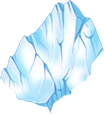
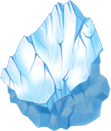
update

diff --git a/css/style.css b/css/style.css
@@ -20,6 +20,7 @@
 	width: 100%;
 	height: 521px;
 	background:  url(../img/water.png) no-repeat;
+	z-index: 1;
 }
 .animate .water{
 	animation: water 2s ease-in-out infinite alternate;
@@ -32,6 +33,7 @@
 	width: 100%;
 	height: 524px;
 	background:  url(../img/wave.png) no-repeat;
+	z-index: 3;
 }
 .animate .wave{
 	animation: wave 2s ease-in-out infinite alternate;
@@ -42,12 +44,16 @@
 	left: 44%;
 	width: 115px;
 	height: 130px;
-	background:  url(../img/iceberg.png) no-repeat,
-	url(../img/iceberg1.png) no-repeat bottom right;
+	background:  url(../img/iceberg.png) no-repeat;
+	z-index: 4;
+}
+.animate .iceberg{
+	animation: iceberg1 0.1s linear 30 alternate 3s, iceberg2 3s ease-in-out 1 alternate 6s, iceberg3 7s ease-in-out 1 9s;
 }
 .content-wrapper .sky > p{
 	font: 30px HelveticaRoman;
 	color: #95ca00;
+	cursor: pointer;
 }
 .content-wrapper .torpedo{
 	position: absolute;
@@ -61,7 +67,7 @@
 	transform: rotate(-30deg);
 }	
 .animate .torpedo.left:first-of-type{
-	animation: torpedo-left1 3s ease-in infinite;
+	animation: torpedo-left1 3s ease-in 1;
 }
 .content-wrapper .torpedo.left:nth-of-type(2){
 	top: 350px;
@@ -69,7 +75,7 @@
 	transform: rotate(-10deg);
 }
 .animate .torpedo.left:nth-of-type(2){
-	animation: torpedo-left2 3s ease-in infinite;
+	animation: torpedo-left2 3s ease-in 1;
 }
 .content-wrapper .torpedo.left:nth-of-type(3){
 	top: 290px;
@@ -77,7 +83,7 @@
 	transform: rotate(-20deg);
 }
 .animate .torpedo.left:nth-of-type(3){
-	animation: torpedo-left3 3s ease-in infinite 2s;
+	animation: torpedo-left3 3s ease-in 1 2s;
 }
 .content-wrapper .torpedo.left:nth-of-type(4){
 	top: 220px;
@@ -85,7 +91,7 @@
 	transform: rotate(0deg);
 }
 .animate .torpedo.left:nth-of-type(4){
-	animation: torpedo-left4 3s ease-in infinite 2s;
+	animation: torpedo-left4 3s ease-in 1 2s;
 }
 .content-wrapper .torpedo.right{
 	transform: rotate(180deg);
@@ -95,14 +101,14 @@
 	right: -160px;
 }
 .animate .torpedo.right:nth-of-type(5){
-	animation: torpedo-right1 3s ease-in infinite 1s;
+	animation: torpedo-right1 3s ease-in 1 1s;
 }
 .content-wrapper .torpedo.right:last-of-type{
 	top: 390px;
 	right: -160px;
 }
 .animate .torpedo.right:last-of-type{
-	animation: torpedo-right2 3s ease-in infinite 1s;
+	animation: torpedo-right2 3s ease-in 1 1s;
 }
 
 /*************************animations***************************/
@@ -115,7 +121,7 @@
 		transform: translate( 0, 0px);
 	}
 }
-	@keyframes water{
+@keyframes water{
 	from { 
 		transform: translate( 0, 0);
 	}
@@ -169,5 +175,45 @@
 	}
 	to{
 		transform: translate(450px, -230px) rotate(-20deg);
+	}
+}
+@keyframes iceberg1{
+	from{
+		-webkit-transform: translate3d(0,0,0);
+	}
+	to{
+		-webkit-transform: translate3d(20px,0,0);
+	}
+}
+@keyframes iceberg2{
+	from{
+		-webkit-z-index: 2;
+		-webkit-transform: scale(1);
+	}
+	50%{
+		-webkit-z-index: 2;
+		-webkit-transform: scale(4);
+
+	}
+	to{
+		-webkit-z-index: 5;
+		-webkit-transform: scale(5);
+	}
+}	
+@keyframes iceberg3{
+	from{
+		-webkit-transform: translate3d(0,0,0) rotate(0deg);
+	}
+	15%{
+		-webkit-transform: translate3d(20px,70px,0) rotate(15deg);
+	}
+	25%{
+		-webkit-transform: translate3d(40px,140px,0) rotate(-15deg);
+	}
+	50%{
+		-webkit-transform: translate3d(-60px,280px,0) rotate(30deg);
+	}
+	to{
+		-webkit-transform: translate3d(-100px, 500px, 0) rotate(90deg);
 	}
 }

diff --git a/index.html b/index.html
@@ -6,9 +6,9 @@
 	<link rel="stylesheet" href="css/import.css">
 </head>
 <body>
-	<div class="content-wrapper nimate">
+	<div class="content-wrapper">
 		<div class="sky">
-			<p>I like to make cool CSS animations</p>
+			<p class="text">I like to make cool CSS animations</p>
 		</div>
 		<div class="water">
 			<div class="iceberg"></div>
@@ -22,5 +22,6 @@
 				<div class="torpedo right"></div>
 		</div>
 	</div>
+	<script src="js/js.js"></script>
 </body>
 </html>

diff --git a/js/js.js b/js/js.js
@@ -1,0 +1,6 @@
+var elText = document.getElementsByClassName('text')[0];
+var elwrapper = document.getElementsByClassName('content-wrapper')[0];
+
+elText.addEventListener( "click", function() 
+	{elwrapper.classList.add("animate");});
+
